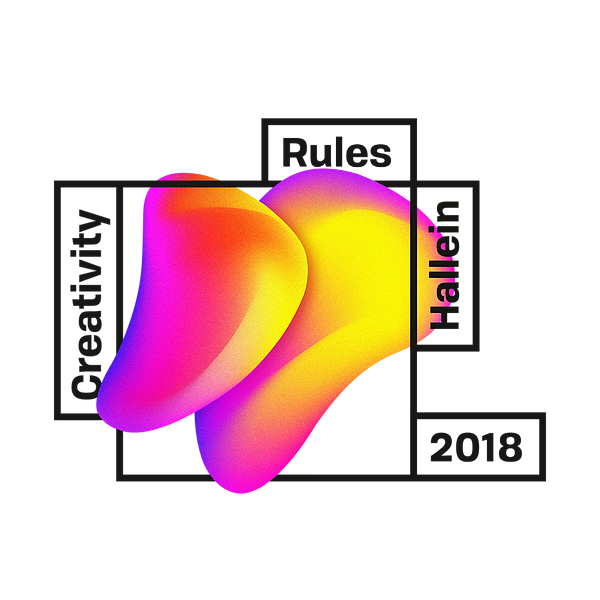
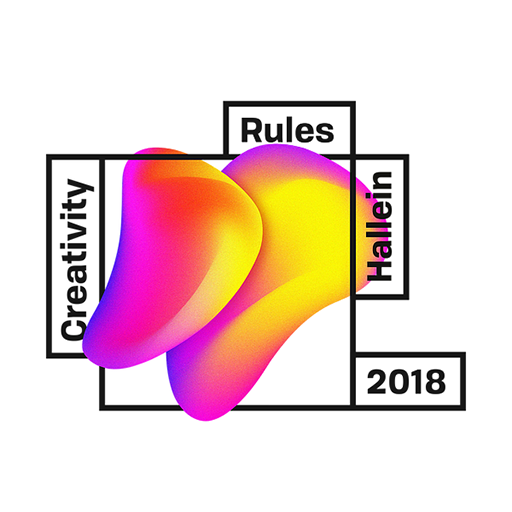
Add build script, Update textures to base 2, 512x512

diff --git a/webpack.config.babel.js b/webpack.config.babel.js
@@ -6,23 +6,24 @@ import CleanWebpackPlugin from 'clean-webpack-plugin'
 import CopyWebpackPlugin from 'copy-webpack-plugin'
 import HtmlWebpackPlugin from 'html-webpack-plugin'
 
-const PATHS = Object.freeze({
+const WEBPACK = Object.freeze({
+  context: path.resolve(__dirname, 'app'),
   src: path.resolve(__dirname, 'app/src'),
   dist: path.resolve(__dirname, 'app/dist'),
 });
 
-
 module.exports = {
-  context: __dirname + '/app',
-  entry: `${PATHS.src}/bundle.js`,
+  context: WEBPACK.context,
+  entry: `${WEBPACK.src}/bundle.js`,
   output: {
     filename: 'bundle.min.js',
-    path: PATHS.dist
+    path: WEBPACK.dist
   },
   resolve: {
     modules: ['node_modules', 'app/src', 'app/src/javascript', 'app/src/templates'],
     extensions: ['.js', '.scss', '.css', '.html']
   },
+  mode: 'development',
   module: {
     rules: [
       {
@@ -55,17 +56,16 @@ module.exports = {
     colors: true
   },
   plugins: [
-    new CleanWebpackPlugin(PATHS.dist),
     new HtmlWebpackPlugin({
-      template: `${PATHS.src}/index.html`
+      template: `${WEBPACK.src}/index.html`
     }),
     new CopyWebpackPlugin([
       {
-        from: `${PATHS.src}/assets`,
-        to: `${PATHS.dist}/assets`
+        from: `${WEBPACK.src}/assets`,
+        to: `${WEBPACK.dist}/assets`
       }, {
-        from: `${PATHS.src}/templates`,
-        to: `${PATHS.dist}/templates`
+        from: `${WEBPACK.src}/templates`,
+        to: `${WEBPACK.dist}/templates`
       }
     ])
   ],

diff --git a/app/src/javascript/SceneManager.js b/app/src/javascript/SceneManager.js
@@ -11,23 +11,26 @@ class SceneManager {
 
             <!-- Textures and Images -->
             <img id="sky" src="${ASSET_PATH.images}sky.jpg">
+            
+            <!-- Blob Textures --> 
             <img id="blob-a-texture" src="${ASSET_PATH.objects}BlobA.png">
             <img id="blob-b-texture" src="${ASSET_PATH.objects}BlobB.png">
+            
+            <!-- CreativityRulesIcons -->
             <img id="cr_18" src="${ASSET_PATH.images}cr_18_white.png">
+            
+            <!-- University Logos -->
             <img id="mma" src="${ASSET_PATH.images}mma.png">
             <img id="mmt" src="${ASSET_PATH.images}mmt.png">
 
             <!-- 3D Objects -->
             <a-asset-item id="blob-a" src="${ASSET_PATH.objects}BlobA.obj"></a-asset-item>
-            <a-asset-item id="blob-a-mtl" src="${ASSET_PATH.objects}BlobA.mtl"></a-asset-item>
-
             <a-asset-item id="blob-b" src="${ASSET_PATH.objects}BlobB.obj"></a-asset-item>
-            <a-asset-item id="blob-b-mtl" src="${ASSET_PATH.objects}BlobB.mtl"></a-asset-item>
 
         </a-assets>
 
         <!-- Camera -->
-        <a-entity id='camera' position="0 3.77 13.42" camera look-controls>
+        <a-entity id='camera' position="0 3.77 13.42" camera look-controls wasd-controls>
             <a-entity cursor="fuse: true; fuseTimeout: 500"
                       position="0 0 -1"
                       geometry="primitive: ring; radiusInner: 0.02; radiusOuter: 0.03"
